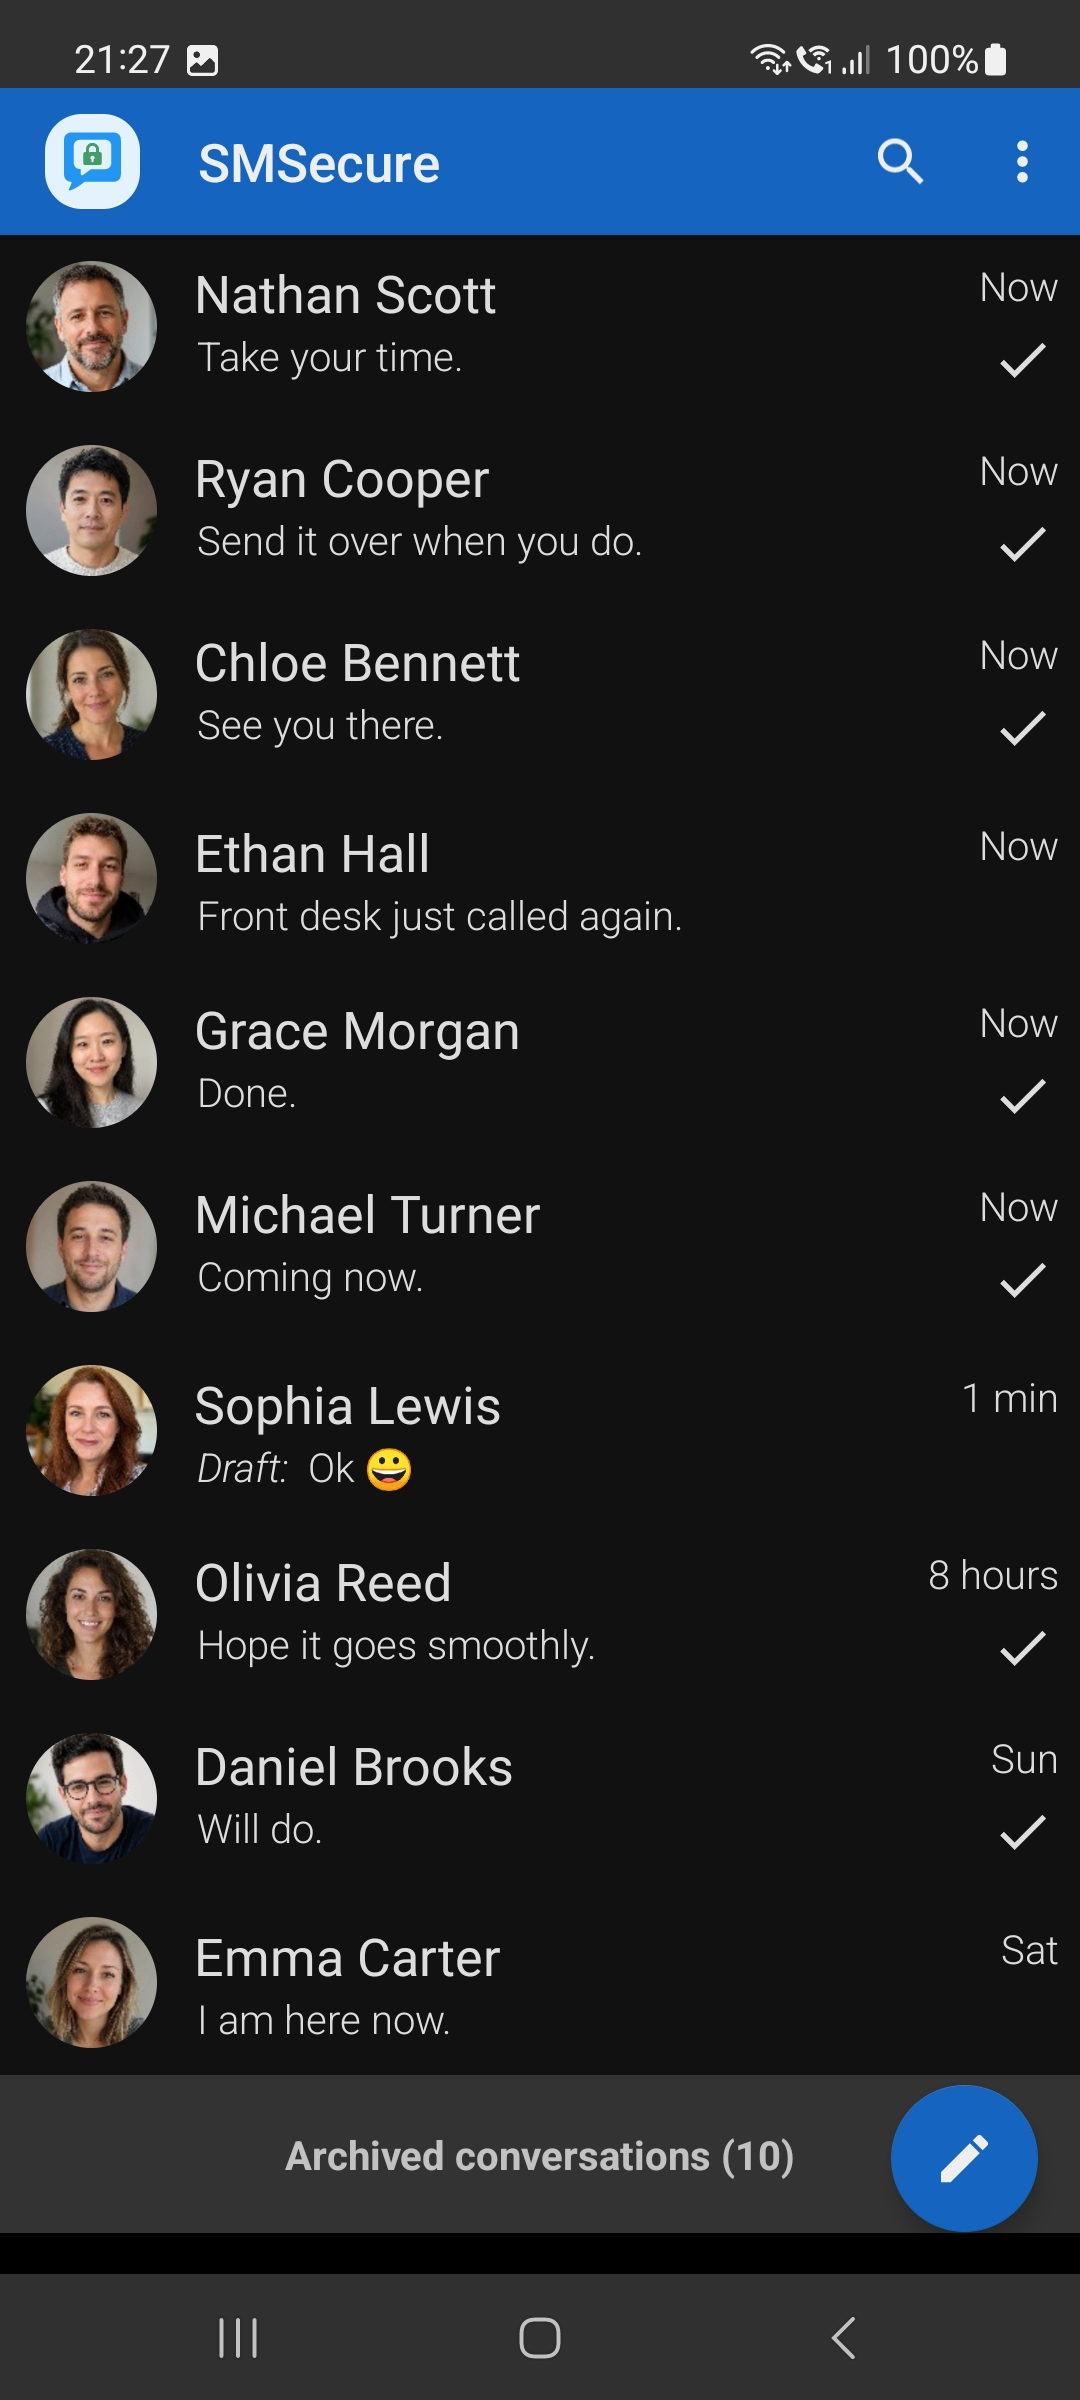
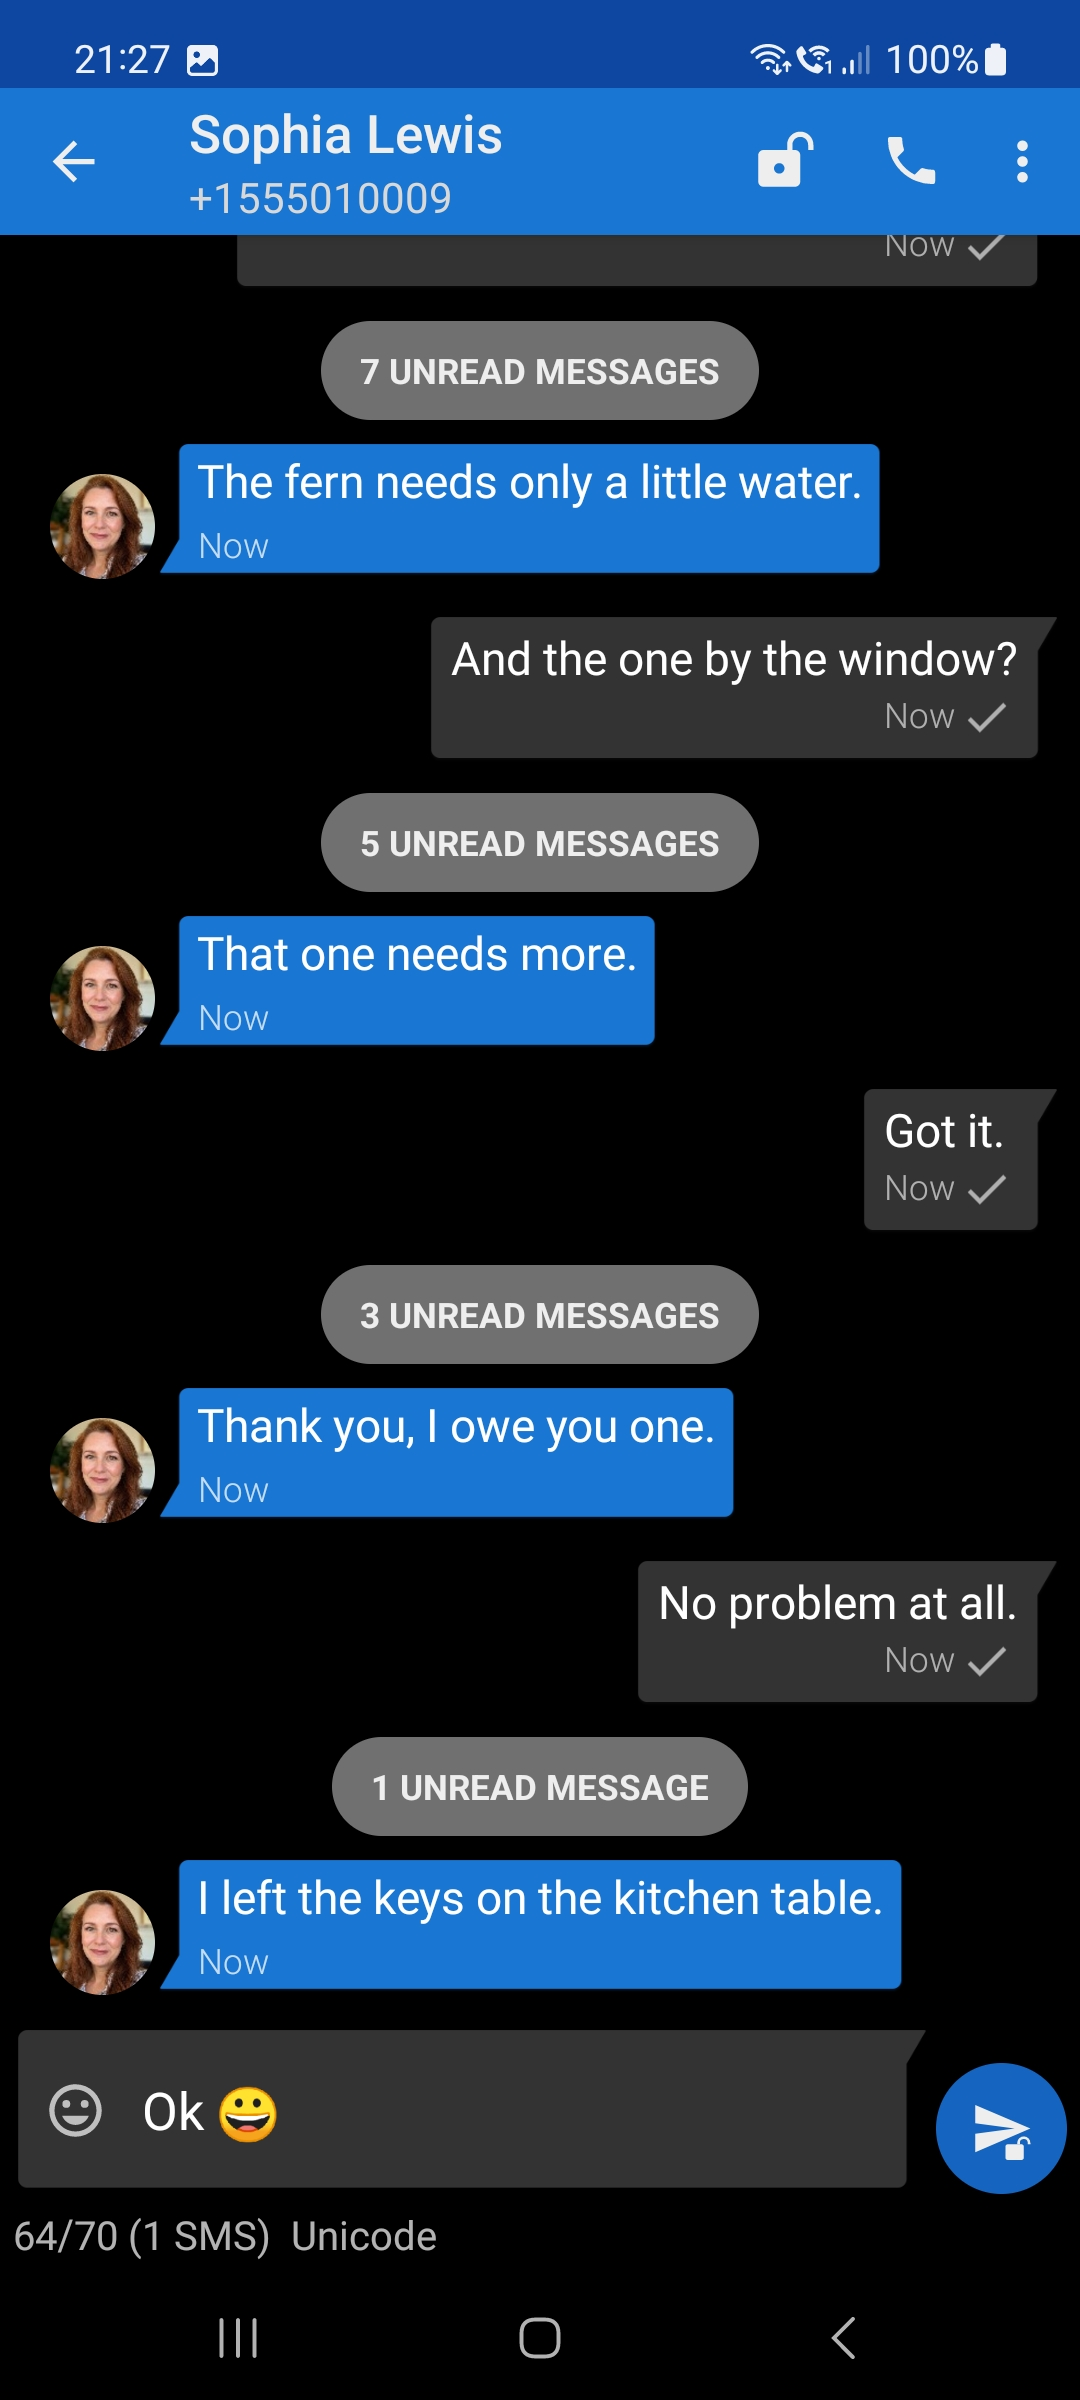
Update README.md

diff --git a/README.md b/README.md
@@ -228,11 +228,9 @@ http://www.gnu.org/licenses/gpl-3.0.html
 ---
 
 <div align="center">
-<img alt="App image" src="fastlane/metadata/android/en-US/images/phoneScreenshots/1_en-US.jpg" width="20%">
-<img alt="App image" src="fastlane/metadata/android/en-US/images/phoneScreenshots/2_en-US.jpg" width="20%">
-<img alt="App image" src="fastlane/metadata/android/en-US/images/phoneScreenshots/3_en-US.jpg" width="20%">
-<img alt="App image" src="fastlane/metadata/android/en-US/images/phoneScreenshots/4_en-US.jpg" width="20%">
-<img alt="App image" src="fastlane/metadata/android/en-US/images/phoneScreenshots/5_en-US.jpg" width="20%">
-<img alt="App image" src="fastlane/metadata/android/en-US/images/phoneScreenshots/6_en-US.jpg" width="20%">
-<img alt="App image" src="fastlane/metadata/android/en-US/images/phoneScreenshots/7_en-US.jpg" width="20%">
+<img alt="App image" src="fastlane/metadata/android/en-US/images/phoneScreenshots/1_en-US.jpg" width="25%">
+<img alt="App image" src="fastlane/metadata/android/en-US/images/phoneScreenshots/2_en-US.jpg" width="25%">
+<img alt="App image" src="fastlane/metadata/android/en-US/images/phoneScreenshots/3_en-US.jpg" width="25%">
+<img alt="App image" src="fastlane/metadata/android/en-US/images/phoneScreenshots/4_en-US.jpg" width="25%">
+<img alt="App image" src="fastlane/metadata/android/en-US/images/phoneScreenshots/5_en-US.jpg" width="25%">
 </div>
